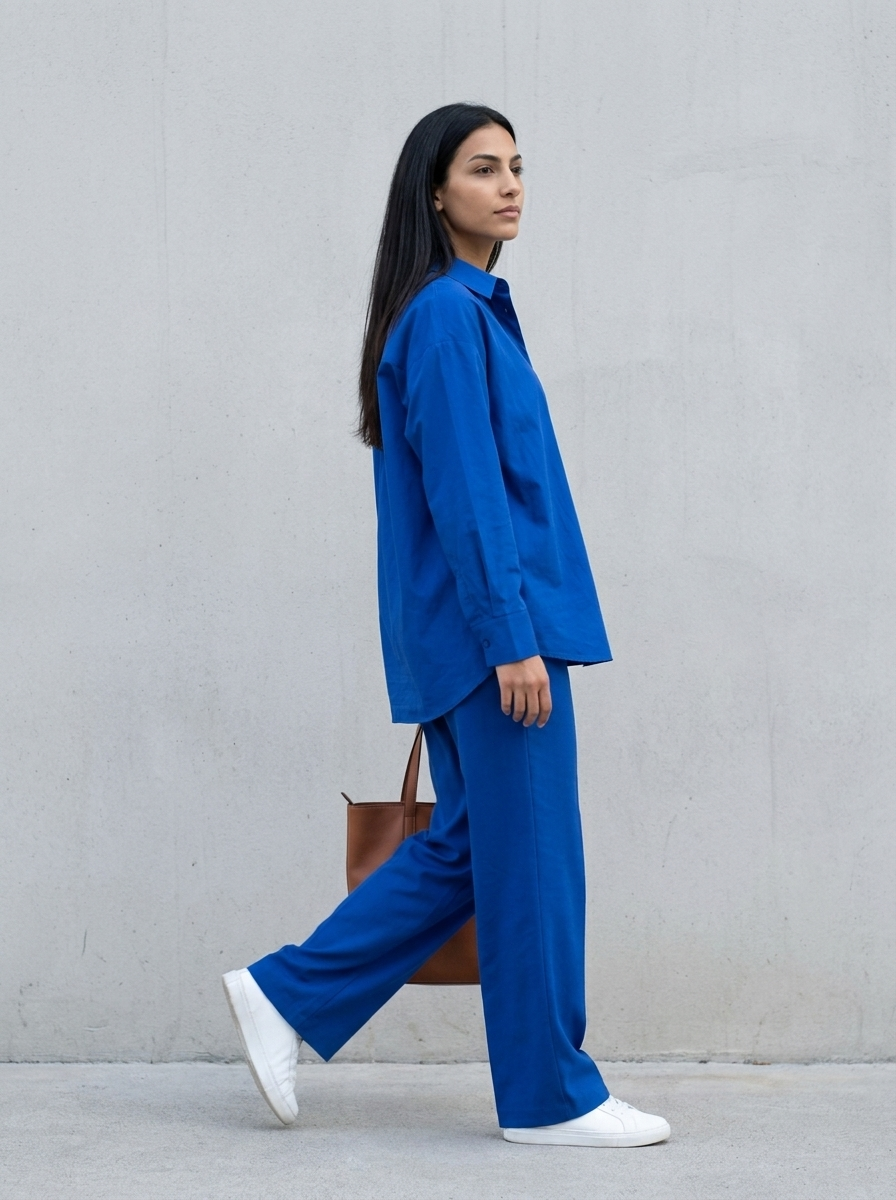
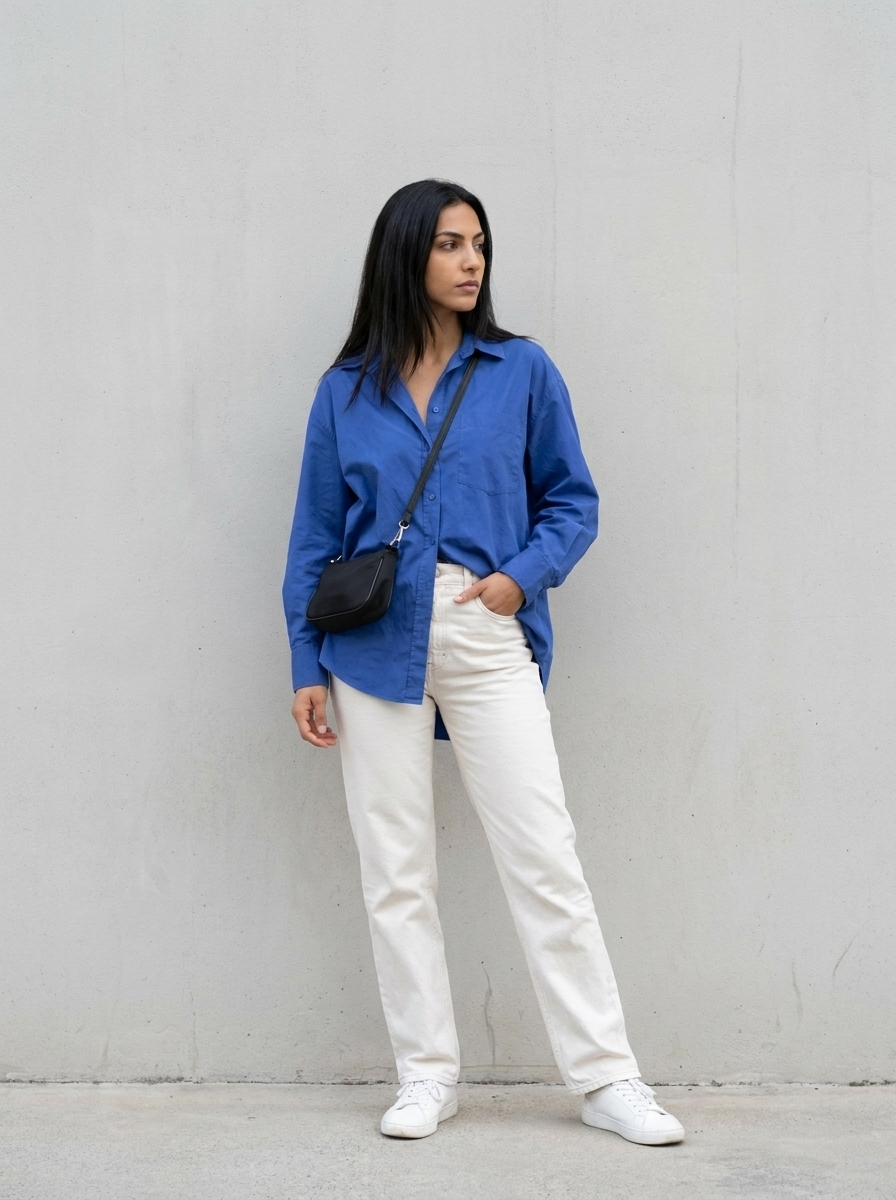
fix(swipe): color-protagonista mujer — una pieza de color sobre neutros, de frente (v0.2.8.1)
El conjunto azul total se confundía conceptualmente con Monocromático
(misma idea, otro tono) y la pose de perfil escondía el outfit. Ahora:
camisa cobalto oversized como única pieza de color sobre jeans crudos +
tenis blancos, pose de frente tres cuartos. El pipeline gana overrides
de pose por carta (5º campo opcional en WOMEN, como el de peinado).

Changed region(s): [[0.0, 0.0617, 1.0, 0.9867], [0.8125, 0.9558, 0.875, 0.9867]]

diff --git a/CHANGELOG.md b/CHANGELOG.md
@@ -2,6 +2,12 @@
 
 Cambios notables de stailist. Formato basado en [Keep a Changelog](https://keepachangelog.com/es/); versiones `MAJOR.MINOR.PATCH.MICRO`.
 
+## [0.2.8.1] - 2026-07-22
+
+### Fixed
+
+- La carta **Color protagonista** (mujer) del swipe ya muestra lo que promete: UNA pieza de color vivo brillando sobre base neutra — antes era un conjunto azul completo que se confundía con Monocromático, y posaba de perfil escondiendo el outfit.
+
 ## [0.2.8.0] - 2026-07-22
 
 ### Added
